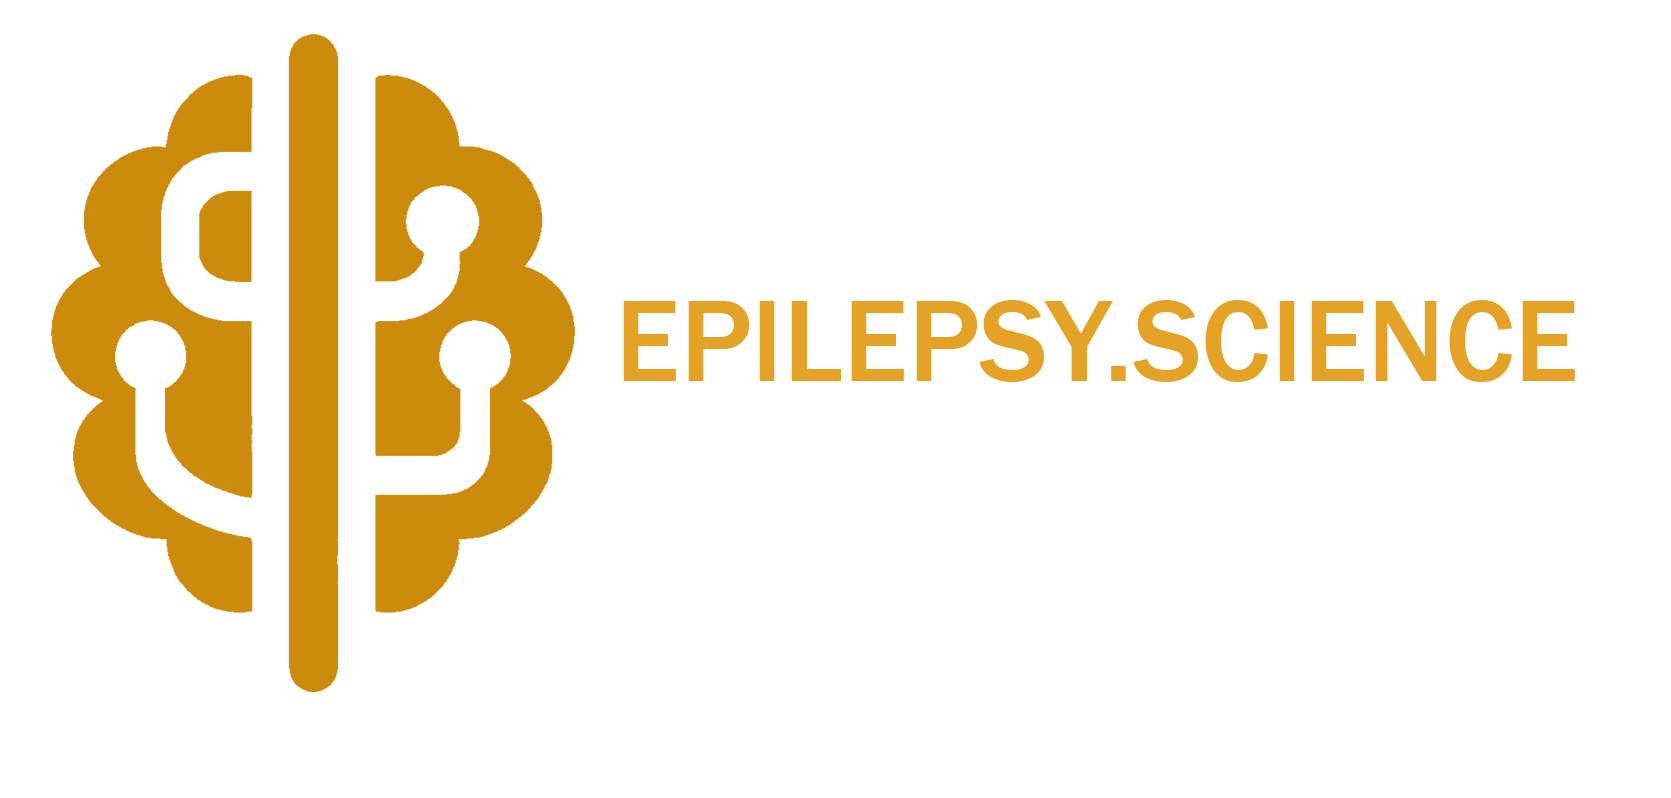
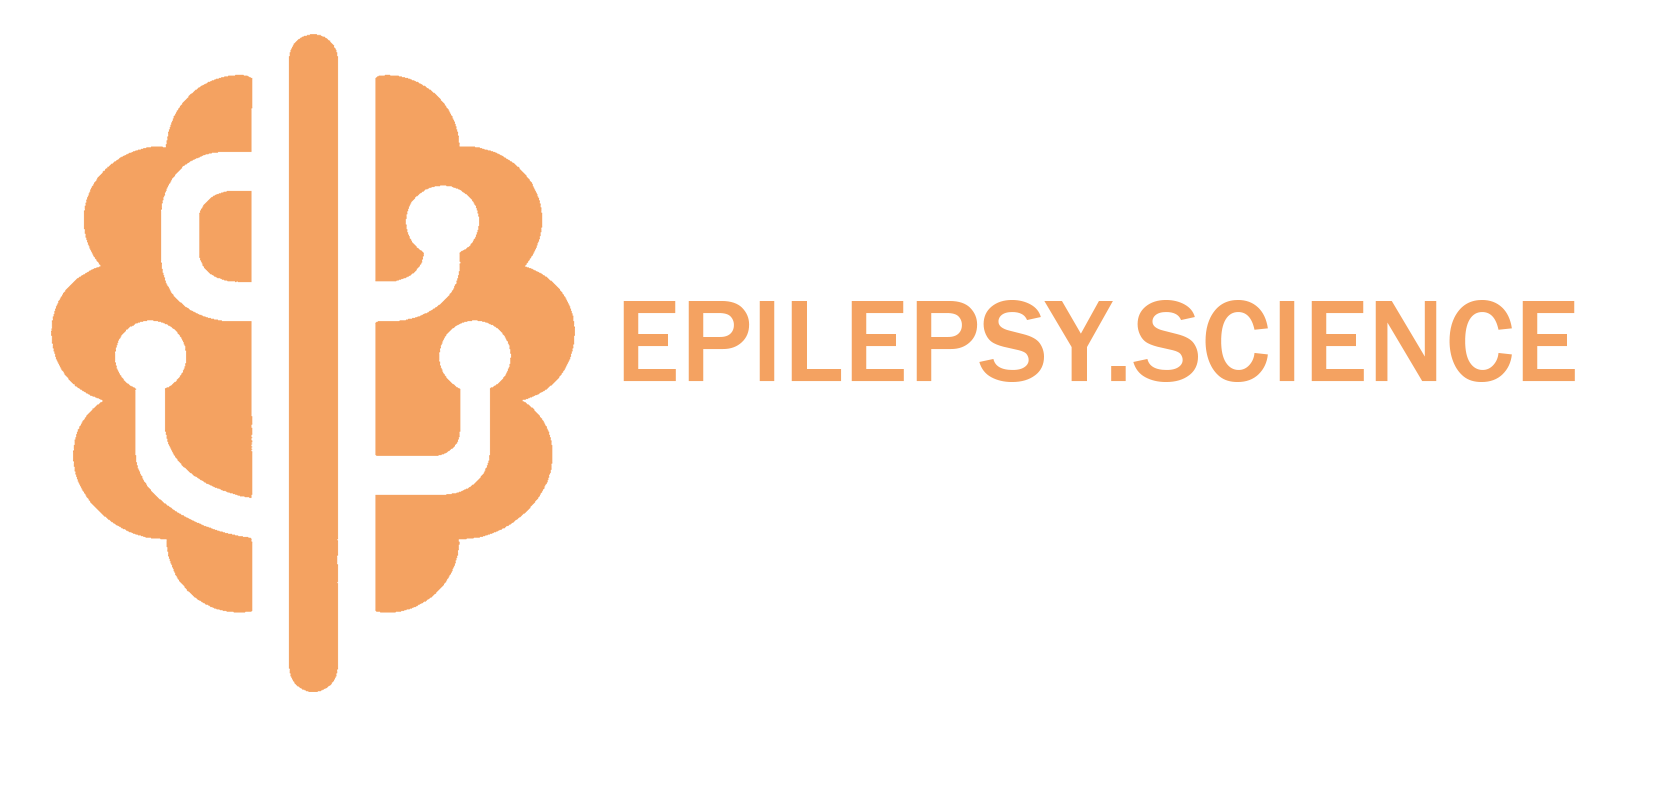
Update colors and connectivity to contentful

Changed region(s): [[0.0311, 0.0301, 0.3423, 0.8722], [0.3734, 0.3609, 0.9647, 0.4812]]

diff --git a/nuxt.config.js b/nuxt.config.js
@@ -9,24 +9,24 @@ export default {
    ** Headers of the page
    */
   head: {
-    title: 'SPARC Portal',
+    title: 'Epilepsy.Science - Advancing Epilepsy Research Worldwide',
     meta: [
       { charset: 'utf-8' },
       { name: 'viewport', content: 'width=device-width, initial-scale=1' },
       {
         hid: 'description',
         name: 'description',
-        content: 'Stimulating Peripheral Activity to Relieve Conditions (SPARC)',
+        content: 'Progressing Epilepsy research around the globe',
       },
       {
         hid: 'keywords',
         name: 'keywords',
-        content: 'nih sparc, sparc program, stimulating peripheral activity to relieve conditions, common fund sparc, sparc, sparc initiative, sparc neuro, sparc science'
+        content: 'Epilepsy, University of Pennsylvania, Harvard University, University of Pennsylvania Hospital, Massachusetts General Hospital'
       },
       // default social cards information for site sharing url's
       { hid: 'og:type', property: 'og:type', content: 'website' },
-      { hid: 'og:title', property: 'og:title', content: 'SPARC Portal' },
-      { hid: 'og:description', property: 'og:description', content: 'Stimulating Peripheral Activity to Relieve Conditions (SPARC)' },
+      { hid: 'og:title', property: 'og:title', content: 'Epilepsy.Science' },
+      { hid: 'og:description', property: 'og:description', content: 'Progressing Epilepsy research around the globe' },
       { hid: 'og:image', property: 'og:image',
         content: 'http://images.ctfassets.net/erzgaqq17mnz/46BUPtc8c1AJXcI8kpHrN4/8b2a49b4f55525c675330c6f4c9a55a9/epilepsy.science.png'
       },
@@ -70,42 +70,47 @@ export default {
     ctf_community_spotlight_item_id: 'communitySpotlight',
     ctf_news_and_events_id: 'newsAndEvents',
     ctf_resource_id: 'sparcPartners',
-    ctf_resource_hero_id: 'v1RaymYIp0g20jBjj38G0',
-    ctf_tools_and_resources_page_id: '5gOQBmYpDBRPtJh7Yzj8SP',
     ctf_help_id: 'helpDocument',
-    // ctf_help_list_id: 'helpSection',
-    // ctf_help_aws_id: 'zQfzadwADutviJjT19hA5',
-    ctf_about_page_id: 'eGyEJR9pBdNT4zI71Y6sD',
-    ctf_about_portal_page_id: '3QNKLvQyniXdkmFPVI7skQ',
-    ctf_about_details_content_type_id: 'aboutPageSecondLevel',
     ctf_learn_more_item_id: 'learnMoreItem',
     ctf_sparc_policies_id: 'sparcPolicies',
+    ctf_project_id: 'sparcAward',
+    ctf_organ_id: 'organ',
+    ctf_success_story_id: 'successStory',
+    ctf_about_details_content_type_id: 'aboutPageSecondLevel',
+
+    // Updated epilepsy.science ids
+    ctf_portal_notification_entry_id: '1kGepfPts4FM3tDfOGVPnQ',
+    ctf_footer_copy_id: '3dY5OIZZcCCHmcFEIAgsVl',
+    ctf_resource_hero_id: 'v1RaymYIp0g20jBjj38G0',
+    ctf_tools_and_resources_page_id: '5gOQBmYpDBRPtJh7Yzj8SP',
+    ctf_about_page_id: 'eGyEJR9pBdNT4zI71Y6sD',
+    ctf_about_portal_page_id: '3QNKLvQyniXdkmFPVI7skQ',
+    ctf_home_page_id: '4KuOw0SnxWqN7SZ6W68oey',
+
+    // Old sparc.science ids
+    ctf_help_list_id: 'helpSection',
+    ctf_help_aws_id: 'zQfzadwADutviJjT19hA5',
     ctf_what_we_offer_page_id: '4wuZ2gzxota1GLTFUXSLNb',
     ctf_team_and_leadership_page_id: '7EL9Plxo7q2GyCzg1sqIcg',
     ctf_get_involved_page_id: 'jxEBoBw2zUctuDaX2eeX1',
     ctf_about_policies_page_id: '71a9NzpuHvaTpgTf9ir1xg',
     ctf_contact_us_form_type_id: 'contactUsForm',
     ctf_support_page_id: '59F0dM5goobqjw3TsqINRw',
-    ctf_home_page_id: '4KuOw0SnxWqN7SZ6W68oey',
     ctf_news_and_events_page_id: '4IoMamTLRlN3OpxT1zgnU',
     ctf_dataset_navigation_info_page_id: 'qvEcnv56c76V0JC0KvtSd',
     ctf_dataset_format_info_page_id: '3FXikFXC8shPRd8xZqhjVT',
-    ctf_project_id: 'sparcAward',
-    ctf_organ_id: 'organ',
     ctf_filter_id: '6bya4tyw8399',
     ctf_filters_dataset_id: '7fL88ABgKSB2tPJmysn2V',
     ctf_filters_project_id: 'YVan5NSd4bgj2Q5WZdOVw',
     ctf_filters_organ_id: '5Hhlb7Lf4yijMQUSBai1fh',
     ctf_filters_image_id: '4R4zfdND13xLLGU9nPpNCD',
     ctf_filters_simulation_id: '6qMQRugMyzeaUrTIPQDdF1',
-    ctf_footer_copy_id: 'wpik0A2sDOy9IQEoKpkKG',
     ctf_terms_id: '6XCER8v1TVVCoZdaBWg66t',
     ctf_privacy_policy_id: '2p44GCn1rrWUETwTRF2ElS',
-    ctf_success_story_id: 'successStory',
     ctf_documentation_hub_redirects_id: 'yhBSKvDSpBQbeHQWHgj9j',
     ctf_contact_us_form_options_id: '79rwRA0rUqUj6rc913BFsz',
     ctf_sparc_login_modal_id: '4FSEoB6SW8xrEAsh4t0vGt',
-    ctf_portal_notification_entry_id: 'XiVlrkTXeKxTyN1Q2oY2Q',
+    
     CTF_SPACE_ID: process.env.CTF_SPACE_ID,
     CTF_CDA_ACCESS_TOKEN: process.env.CTF_CDA_ACCESS_TOKEN,
     CTF_API_HOST: process.env.CTF_API_HOST || 'preview.contentful.com',

diff --git a/components/StayConnected/StayConnected.vue b/components/StayConnected/StayConnected.vue
@@ -4,13 +4,13 @@
     <div class="subpage py-16">
       <el-row :gutter="32">
         <el-col :xs="24" :sm="12" class="newsletter-wrap">
-          <div class="heading2">Sign up for the SPARC Newsletter</div>
-          <div class="body1 mb-16 mt-8">Keep up to date with all the latest news and events from the SPARC Portal.</div>
+          <div class="heading2">Sign up for the Epilepsy.Science Newsletter</div>
+          <div class="body1 mb-16 mt-8">Keep up to date with all the latest news and events from the Epilepsy.Science Portal.</div>
           <newsletter-form />
         </el-col>
         <el-col class="office-hours-column" :xs="24" :sm="12">
-          <div class="heading2">Open Office Hours</div>
-          <div class="body1 mb-16 mt-8">Join one of our weekly office hours to ask questions and learn more from the SPARC Data Resource Center Team.</div>
+          <div class="heading2">Connect with our team</div>
+          <div class="body1 mb-16 mt-8">Reach out to our team to see how your dataset can be included in the repository.</div>
           <a href="https://docs.sparc.science/docs/sparc-drc-open-office-hours" target="_blank">
             <el-button class="secondary">
               Find out more

diff --git a/components/header/Header.vue b/components/header/Header.vue
@@ -20,7 +20,7 @@
           <a class="sign-in-link" v-if="!pennsieveUser" @click="showLoginDialog = true">
             Sign in
           </a>
-          <el-menu class="mr-16 user-menu" v-else popper-class="user-popper" background-color="#24245b" mode="horizontal" @select="handleUserMenuSelect">
+          <el-menu class="mr-16 user-menu" v-else popper-class="user-popper" background-color="#e76f51" mode="horizontal" @select="handleUserMenuSelect">
             <el-submenu index="user">
               <template slot="title">{{pennsieveUsername}}</template>
               <el-menu-item class="user-submenu" index="profile">Profile</el-menu-item>
@@ -196,22 +196,26 @@ const links = [
   {
     title: 'data',
     displayTitle: 'Data & Models',
-    href: '/data'
+    // href: '/data'
+    href: '#'
   },
   {
     title: 'resources',
     displayTitle: 'Tools & Resources',
-    href: `/resources`
+    // href: `/resources`
+    href: `#`
   },
   {
     title: 'news-and-events',
     displayTitle: 'News & Events',
-    href: '/news-and-events'
+    // href: '/news-and-events'
+    href: '#'
   },
   {
     title: 'about',
     displayTitle: 'About',
-    href: '/about'
+    // href: '/about'
+    href: '#'
   }
 ]
 

diff --git a/pages/index.vue b/pages/index.vue
@@ -14,9 +14,6 @@
         :src="heroImage.fields.file.url"
       />
     </page-hero>
-    <div class="secondary-background">
-      <featured-data :featured-data="featuredData" />
-    </div>
     <hr />
     <portal-features :features="portalFeatures" />
     <hr />
@@ -74,6 +71,7 @@ export default {
           fields = { ...fields, 'featuredDataset': { 'title': datasets[0].name, 'description': datasets[0].description, 'banner': datasets[0].banner, 'id': datasets[0].id }, 'datasetSectionTitle': datasetSectionTitle }
         })
         if (pathOr(undefined, ["featuredProject","fields","institution"], fields) != undefined) {
+          console.log("HEREHERHERE")
           const institutionId = pathOr("", ["featuredProject","fields","institution","sys","id"], fields)
           await client.getEntry(institutionId).then(( response ) => {
             fields.featuredProject.fields = { ...fields.featuredProject.fields, 'banner': response.fields.logo.fields.file.url }

diff --git a/pages/news-and-events/index.vue b/pages/news-and-events/index.vue
@@ -99,8 +99,8 @@
         <div class="subpage py-16">
           <el-row :gutter="32">
             <el-col :xs="24" :sm="12" class="newsletter-wrap">
-              <div class="heading2">Sign up for the SPARC Newsletter</div>
-              <div class="body1 mb-16 mt-8">Keep up to date with all the latest news and events from the SPARC Portal.</div>
+              <div class="heading2">Sign up for the Epilepsy.Science Newsletter</div>
+              <div class="body1 mb-16 mt-8">Keep up to date with all the latest news and events from the Epilepsy.Science Portal.</div>
               <newsletter-form />
               <div class="newsletter-archive mt-16">
                 <style type="text/css">

diff --git a/components/footer/Footer.vue b/components/footer/Footer.vue
@@ -46,11 +46,11 @@
                 />
               </a>
             </div>
-            <div class="footer__info--re3data">
+            <!-- <div class="footer__info--re3data">
               <object type="image/svg+xml" data="/images/100013719.svg">
                 <img src="/images/100013719.svg" alt="re3data badge"/>
               </object>
-            </div>
+            </div> -->
           </div>
         </el-col>
         <el-col :sm="{ span: 22, offset: 1 }" :md="{ span: 8, offset: 4 }">

diff --git a/assets/_variables.scss b/assets/_variables.scss
@@ -11,7 +11,7 @@ $primary-link: #5D6478;
 $vestibular: #2c3e50;
 $tibial: #FBFBFD;
 $cochlear: #FFFFFF;
-$navy: #24245b;
+$navy: #e76f51;
 $dark-gray: #606266;
 $neutral-gray: #616161;
 $seafoam: #f5f7fa;
@@ -26,7 +26,7 @@ $light-grey: #d8d8d8;
 $dark-sky: #303133;
 $purple-gray: #e4e7ed;
 $light-purple: #f9f2fc;
-$midnight: #24245b;
+$midnight: #e76f51;
 $medium-gray: #909399;
 $washed-gray: #f5f7fa;
 

diff --git a/store/index.js b/store/index.js
@@ -10,7 +10,7 @@ export const mutations = {
 
 const actions = {
   async nuxtServerInit({dispatch}) {
-    await dispatch('pages/contact-us/fetchContactUsFormOptions')
+    // await dispatch('pages/contact-us/fetchContactUsFormOptions')
     await dispatch('layouts/default/fetchFooterData')
     await dispatch('user/fetchUser')
     await dispatch('layouts/default/fetchPortalNotification')

diff --git a/components/PortalFeatures/PortalFeatures.vue b/components/PortalFeatures/PortalFeatures.vue
@@ -32,7 +32,7 @@ export default {
     },
     title: {
       type: String,
-      default: "What Can I Do with SPARC?"
+      default: "What can I do on epilepsy.science?"
     },
     iconIsTopElement: {
       type: Boolean,

diff --git a/components/ContactUsForms/questions.js b/components/ContactUsForms/questions.js
@@ -13,7 +13,6 @@ export const pageOrResource = [
   'Find Data',
   'Help or documentation',
   'Home page, header, or footer',
-  'Maps',
   'News & Events',
   'oSPARC',
   'Simulations',

diff --git a/components/SparcCard/SparcCard.vue b/components/SparcCard/SparcCard.vue
@@ -68,7 +68,7 @@ $tablet-large: 64em;
   &__content-wrap {
     display: flex;
     flex: 1;
-    background: #24245b;
+    background: #e76f51;
   }
   &__image,
   &__content-wrap {

diff --git a/components/SearchControls/SearchControls.vue b/components/SearchControls/SearchControls.vue
@@ -163,7 +163,7 @@ export default {
 
 .search-button {
   .view-search-results {
-    background: #24245b;
+    background: #e76f51;
     border: 0;
     height: 40px;
   }
